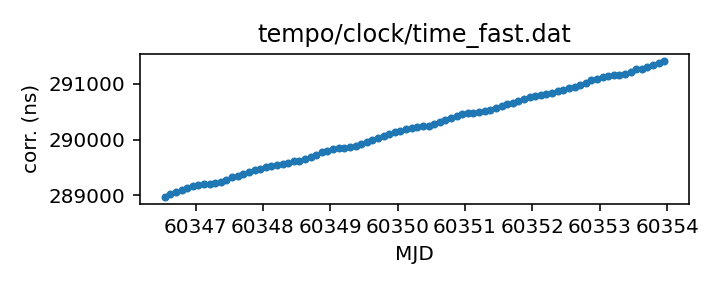
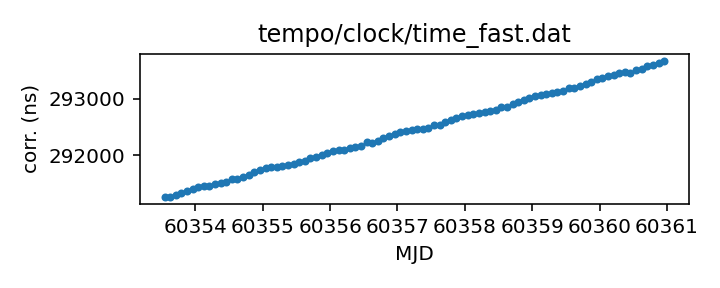
Routine gh-pages update from Github action Thu Feb 22 20:30:34 UTC 2024

diff --git a/status.md b/status.md
@@ -13,17 +13,17 @@ name of each clock file links to a page with more details.
 
 | Name | File | Corrections start | Corrections end | Last check date | Last check result 
 |:--- |:--- | --- | --- | --- |:--- 
-| [GPS to UTC](T2runtime/clock/gps2utc.clk.html) | `T2runtime/clock/gps2utc.clk` | 1993-01-01 MJD 48988.0 | 2024-01-30 MJD 60339.0 | 2024-02-21 | Unchanged 
-| [GPS to UTC (Combined Clock)](T2runtime/clock/gps2utc_cc.clk.html) | `T2runtime/clock/gps2utc_cc.clk` | 1993-01-01 MJD 48988.0 | 2024-01-30 MJD 60339.0 | 2024-02-21 | Unchanged 
-| [GPS to UTC (Corrected)](T2runtime/clock/gps2utc_c0p.clk.html) | `T2runtime/clock/gps2utc_c0p.clk` | 2010-12-29 MJD 55559.0 | 2024-01-30 MJD 60339.0 | 2024-02-21 | Unchanged 
-| [GBT](tempo/clock/time_gbt.dat.html) | `tempo/clock/time_gbt.dat` | 2000-12-31 MJD 51909.5 | 2024-02-20 MJD 60360.5 | 2024-02-21 | Updated 
-| [GBT (TEMPO2 converted from TEMPO)](T2runtime/clock/gbt2gps.clk.html) | `T2runtime/clock/gbt2gps.clk` | 2000-12-31 MJD 51909.5 | 2023-03-20 MJD 60023.5 | 2024-02-21 | **Validation failed** 
-| [Jodrell Bank](T2runtime/clock/jb2gps.clk.html) | `T2runtime/clock/jb2gps.clk` | 2006-10-13 MJD 54021.4 | 2023-12-04 MJD 60282.0 | 2024-02-15 | Unchanged 
-| [Jodrell Bank Roach](T2runtime/clock/jbroach2jb.clk.html) | `T2runtime/clock/jbroach2jb.clk` | 2006-10-13 MJD 54021.4 | 2018-03-20 MJD 58197.6 | 2024-02-15 | Unchanged 
-| [Jodrell Bank DFB](T2runtime/clock/jbdfb2jb.clk.html) | `T2runtime/clock/jbdfb2jb.clk` | 2006-10-13 MJD 54021.4 | 2017-05-11 MJD 57884.0 | 2024-02-15 | Unchanged 
-| [Meerkat (observatory)](T2runtime/clock/mk2utc_observatory.clk.html) | `T2runtime/clock/mk2utc_observatory.clk` | 2019-01-01 MJD 58484.0 | 2024-01-31 MJD 60341.0 | 2024-02-15 | Unchanged 
-| [Leap seconds](tempo/clock/leap.sec.html) | `tempo/clock/leap.sec` | 1972-07-01 MJD 41499.0 | 2017-01-01 MJD 57754.0 | 2024-02-21 | Unchanged 
-| [UT1 table](tempo/clock/ut1.dat.html) | `tempo/clock/ut1.dat` | 1973-01-02 MJD 41684.0 | 2025-02-22 MJD 60728.0 | 2024-02-21 | Unchanged 
+| [GPS to UTC](T2runtime/clock/gps2utc.clk.html) | `T2runtime/clock/gps2utc.clk` | 1993-01-01 MJD 48988.0 | 2024-01-30 MJD 60339.0 | 2024-02-22 | Unchanged 
+| [GPS to UTC (Combined Clock)](T2runtime/clock/gps2utc_cc.clk.html) | `T2runtime/clock/gps2utc_cc.clk` | 1993-01-01 MJD 48988.0 | 2024-01-30 MJD 60339.0 | 2024-02-22 | Unchanged 
+| [GPS to UTC (Corrected)](T2runtime/clock/gps2utc_c0p.clk.html) | `T2runtime/clock/gps2utc_c0p.clk` | 2010-12-29 MJD 55559.0 | 2024-01-30 MJD 60339.0 | 2024-02-22 | Unchanged 
+| [GBT](tempo/clock/time_gbt.dat.html) | `tempo/clock/time_gbt.dat` | 2000-12-31 MJD 51909.5 | 2024-02-21 MJD 60361.5 | 2024-02-22 | Updated 
+| [GBT (TEMPO2 converted from TEMPO)](T2runtime/clock/gbt2gps.clk.html) | `T2runtime/clock/gbt2gps.clk` | 2000-12-31 MJD 51909.5 | 2023-03-20 MJD 60023.5 | 2024-02-22 | **Validation failed** 
+| [Jodrell Bank](T2runtime/clock/jb2gps.clk.html) | `T2runtime/clock/jb2gps.clk` | 2006-10-13 MJD 54021.4 | 2023-12-04 MJD 60282.0 | 2024-02-22 | Unchanged 
+| [Jodrell Bank Roach](T2runtime/clock/jbroach2jb.clk.html) | `T2runtime/clock/jbroach2jb.clk` | 2006-10-13 MJD 54021.4 | 2018-03-20 MJD 58197.6 | 2024-02-22 | Unchanged 
+| [Jodrell Bank DFB](T2runtime/clock/jbdfb2jb.clk.html) | `T2runtime/clock/jbdfb2jb.clk` | 2006-10-13 MJD 54021.4 | 2017-05-11 MJD 57884.0 | 2024-02-22 | Unchanged 
+| [Meerkat (observatory)](T2runtime/clock/mk2utc_observatory.clk.html) | `T2runtime/clock/mk2utc_observatory.clk` | 2019-01-01 MJD 58484.0 | 2024-01-31 MJD 60341.0 | 2024-02-22 | Unchanged 
+| [Leap seconds](tempo/clock/leap.sec.html) | `tempo/clock/leap.sec` | 1972-07-01 MJD 41499.0 | 2017-01-01 MJD 57754.0 | 2024-02-22 | Unchanged 
+| [UT1 table](tempo/clock/ut1.dat.html) | `tempo/clock/ut1.dat` | 1973-01-02 MJD 41684.0 | 2025-03-01 MJD 60735.0 | 2024-02-22 | Updated 
 
 
 
@@ -65,24 +65,24 @@ name of each clock file links to a page with more details.
 
 | Name | File | Corrections start | Corrections end | Last check date | Last check result 
 |:--- |:--- | --- | --- | --- |:--- 
-| [GPS to UTC (TEMPO2)](T2runtime/clock/gps2utc_tempo2.clk.html) | `T2runtime/clock/gps2utc_tempo2.clk` | 1996-03-27 MJD 50169.0 | 2022-10-27 MJD 59879.0 | 2024-02-15 | Unchanged 
-| [GBT (TEMPO2)](T2runtime/clock/gbt2gps_tempo2.clk.html) | `T2runtime/clock/gbt2gps_tempo2.clk` | 2000-12-31 MJD 51909.5 | 2020-02-25 MJD 58904.5 | 2024-02-15 | Unchanged 
-| [Jodrell Bank (TEMPO)](tempo/clock/time_jb.dat.html) | `tempo/clock/time_jb.dat` | 2006-10-13 MJD 54021.4 | 2019-05-13 MJD 58616.2 | 2024-02-15 | Unchanged 
-| [VLA](tempo/clock/time_vla.dat.html) | `tempo/clock/time_vla.dat` | 1990-10-27 MJD 48191.2 | 2021-03-07 MJD 59280.5 | 2024-02-15 | Unchanged 
-| [VLA (TEMPO2)](T2runtime/clock/vla2gps.clk.html) | `T2runtime/clock/vla2gps.clk` | 2015-02-01 MJD 57054.6 | 2021-03-07 MJD 59280.5 | 2024-02-15 | Unchanged 
-| [VLA to NIST](T2runtime/clock/vla2nist.clk.html) | `T2runtime/clock/vla2nist.clk` | 1990-10-27 MJD 48191.2 | 1993-11-13 MJD 49304.0 | 2024-02-15 | Unchanged 
-| [FAST](tempo/clock/time_fast.dat.html) | `tempo/clock/time_fast.dat` | 2017-07-27 MJD 57961.0 | 2024-02-13 MJD 60354.0 | 2024-02-15 | Updated 
-| [WSRT](T2runtime/clock/wsrt2gps.clk.html) | `T2runtime/clock/wsrt2gps.clk` | 1999-01-01 MJD 51179.5 | 2015-06-29 MJD 57202.1 | 2024-02-15 | Unchanged 
-| [WSRT (TEMPO)](tempo/clock/time_wsrt.dat.html) | `tempo/clock/time_wsrt.dat` | 1987-07-24 MJD 47000.0 | 2007-12-24 MJD 54458.0 | 2024-02-15 | **Validation failed** 
-| [Parkes](T2runtime/clock/pks2gps.clk.html) | `T2runtime/clock/pks2gps.clk` | 1858-11-17 MJD 0.0 | 2024-01-31 MJD 60340.1 | 2024-02-15 | Unchanged 
-| [Parkes (TEMPO)](tempo/clock/time_pks.dat.html) | `tempo/clock/time_pks.dat` | 1979-05-07 MJD 44000.0 | 2011-07-03 MJD 55745.8 | 2024-02-15 | **Validation failed** 
-| [SRT](T2runtime/clock/srt2gps.clk.html) | `T2runtime/clock/srt2gps.clk` | 2013-03-20 MJD 56371.0 | 2019-12-11 MJD 58828.0 | 2024-02-15 | Unchanged 
-| [Effelsberg](T2runtime/clock/eff2gps.clk.html) | `T2runtime/clock/eff2gps.clk` | 1993-11-29 MJD 49320.0 | 2015-06-22 MJD 57195.5 | 2024-02-15 | Unchanged 
-| [Effelsberg Asterix/PSRix](T2runtime/clock/effix2gps.clk.html) | `T2runtime/clock/effix2gps.clk` | 2011-01-01 MJD 55562.5 | 2021-03-21 MJD 59294.5 | 2024-02-15 | Unchanged 
-| [LEAP](T2runtime/clock/leap2effix.clk.html) | `T2runtime/clock/leap2effix.clk` | 2012-10-29 MJD 56230.0 | 2014-03-04 MJD 56720.0 | 2024-02-15 | Unchanged 
-| [NUPPI](tempo/clock/time_nuppi.dat.html) | `tempo/clock/time_nuppi.dat` | 2005-03-07 MJD 53436.0 | 2015-11-08 MJD 57334.6 | 2024-02-15 | Unchanged 
+| [GPS to UTC (TEMPO2)](T2runtime/clock/gps2utc_tempo2.clk.html) | `T2runtime/clock/gps2utc_tempo2.clk` | 1996-03-27 MJD 50169.0 | 2022-10-27 MJD 59879.0 | 2024-02-22 | Unchanged 
+| [GBT (TEMPO2)](T2runtime/clock/gbt2gps_tempo2.clk.html) | `T2runtime/clock/gbt2gps_tempo2.clk` | 2000-12-31 MJD 51909.5 | 2020-02-25 MJD 58904.5 | 2024-02-22 | Unchanged 
+| [Jodrell Bank (TEMPO)](tempo/clock/time_jb.dat.html) | `tempo/clock/time_jb.dat` | 2006-10-13 MJD 54021.4 | 2019-05-13 MJD 58616.2 | 2024-02-22 | Unchanged 
+| [VLA](tempo/clock/time_vla.dat.html) | `tempo/clock/time_vla.dat` | 1990-10-27 MJD 48191.2 | 2021-03-07 MJD 59280.5 | 2024-02-22 | Unchanged 
+| [VLA (TEMPO2)](T2runtime/clock/vla2gps.clk.html) | `T2runtime/clock/vla2gps.clk` | 2015-02-01 MJD 57054.6 | 2021-03-07 MJD 59280.5 | 2024-02-22 | Unchanged 
+| [VLA to NIST](T2runtime/clock/vla2nist.clk.html) | `T2runtime/clock/vla2nist.clk` | 1990-10-27 MJD 48191.2 | 1993-11-13 MJD 49304.0 | 2024-02-22 | Unchanged 
+| [FAST](tempo/clock/time_fast.dat.html) | `tempo/clock/time_fast.dat` | 2017-07-27 MJD 57961.0 | 2024-02-20 MJD 60361.0 | 2024-02-22 | Updated 
+| [WSRT](T2runtime/clock/wsrt2gps.clk.html) | `T2runtime/clock/wsrt2gps.clk` | 1999-01-01 MJD 51179.5 | 2015-06-29 MJD 57202.1 | 2024-02-22 | Unchanged 
+| [WSRT (TEMPO)](tempo/clock/time_wsrt.dat.html) | `tempo/clock/time_wsrt.dat` | 1987-07-24 MJD 47000.0 | 2007-12-24 MJD 54458.0 | 2024-02-22 | **Validation failed** 
+| [Parkes](T2runtime/clock/pks2gps.clk.html) | `T2runtime/clock/pks2gps.clk` | 1858-11-17 MJD 0.0 | 2024-01-31 MJD 60340.1 | 2024-02-22 | Unchanged 
+| [Parkes (TEMPO)](tempo/clock/time_pks.dat.html) | `tempo/clock/time_pks.dat` | 1979-05-07 MJD 44000.0 | 2011-07-03 MJD 55745.8 | 2024-02-22 | **Validation failed** 
+| [SRT](T2runtime/clock/srt2gps.clk.html) | `T2runtime/clock/srt2gps.clk` | 2013-03-20 MJD 56371.0 | 2019-12-11 MJD 58828.0 | 2024-02-22 | Unchanged 
+| [Effelsberg](T2runtime/clock/eff2gps.clk.html) | `T2runtime/clock/eff2gps.clk` | 1993-11-29 MJD 49320.0 | 2015-06-22 MJD 57195.5 | 2024-02-22 | Unchanged 
+| [Effelsberg Asterix/PSRix](T2runtime/clock/effix2gps.clk.html) | `T2runtime/clock/effix2gps.clk` | 2011-01-01 MJD 55562.5 | 2021-03-21 MJD 59294.5 | 2024-02-22 | Unchanged 
+| [LEAP](T2runtime/clock/leap2effix.clk.html) | `T2runtime/clock/leap2effix.clk` | 2012-10-29 MJD 56230.0 | 2014-03-04 MJD 56720.0 | 2024-02-22 | Unchanged 
+| [NUPPI](tempo/clock/time_nuppi.dat.html) | `tempo/clock/time_nuppi.dat` | 2005-03-07 MJD 53436.0 | 2015-11-08 MJD 57334.6 | 2024-02-22 | Unchanged 
 | [Meerkat (TEMPO2)](T2runtime/clock/mk2utc.clk.html) | `T2runtime/clock/mk2utc.clk` | 2019-01-01 MJD 58484.0 | 2023-10-18 MJD 60235.9 | 2024-02-19 | Unchanged 
-| [MOST](T2runtime/clock/mo2gps.clk.html) | `T2runtime/clock/mo2gps.clk` | 2003-12-27 MJD 53000.0 | 2018-09-06 MJD 58367.0 | 2024-02-15 | Unchanged 
+| [MOST](T2runtime/clock/mo2gps.clk.html) | `T2runtime/clock/mo2gps.clk` | 2003-12-27 MJD 53000.0 | 2018-09-06 MJD 58367.0 | 2024-02-22 | Unchanged 
 | [Nancay to obspm](T2runtime/clock/ncyobs2obspm.clk.html) | `T2runtime/clock/ncyobs2obspm.clk` | 1988-05-18 MJD 47299.6 | 2023-10-27 MJD 60244.0 | 2024-02-21 | Unchanged 
 | [obspm](T2runtime/clock/obspm2gps.clk.html) | `T2runtime/clock/obspm2gps.clk` | 2003-12-01 MJD 52974.0 | 2023-10-27 MJD 60244.0 | 2024-02-21 | Unchanged 
 

diff --git a/tempo/clock/time_pks.dat.md b/tempo/clock/time_pks.dat.md
@@ -20,12 +20,11 @@ telescopes in the same file, distinguished only by observatory code.
 | Clock file start | 1979-05-07 MJD 44000.0 |
 | Clock file end | 2011-07-03 MJD 55745.8 |
 | Update interval (days) | 7 |
-| Last update attempt | 2024-02-15 |
+| Last update attempt | 2024-02-22 |
 | Last update result | Validation failed |
 
 Log entries from the last few update attempts:
 ```
-2023-12-14 20:29:39.230 - Validation failed: Unable to read new version of tempo/clock/time_pks.dat: Clock file /tmp/astropy-download-1915-3v8rlovy appears to be out of order
 2023-12-21 20:29:40.474 - Validation failed: Unable to read new version of tempo/clock/time_pks.dat: Clock file /tmp/astropy-download-1821-3k659wi3 appears to be out of order
 2023-12-28 20:29:30.527 - Validation failed: Unable to read new version of tempo/clock/time_pks.dat: Clock file /tmp/astropy-download-1937-p5sqsqze appears to be out of order
 2024-01-04 20:29:28.434 - Validation failed: Unable to read new version of tempo/clock/time_pks.dat: Clock file /tmp/astropy-download-1932-d4kgqvo7 appears to be out of order
@@ -35,6 +34,7 @@ Log entries from the last few update attempts:
 2024-02-01 20:29:37.102 - Validation failed: Unable to read new version of tempo/clock/time_pks.dat: Clock file /tmp/astropy-download-1816-okvvhk9o appears to be out of order
 2024-02-08 20:29:41.805 - Validation failed: Unable to read new version of tempo/clock/time_pks.dat: Clock file /tmp/astropy-download-1793-uoj6xi3x appears to be out of order
 2024-02-15 20:29:55.562 - Validation failed: Unable to read new version of tempo/clock/time_pks.dat: Clock file /tmp/astropy-download-1800-q4luxsyy appears to be out of order
+2024-02-22 20:29:57.073 - Validation failed: Unable to read new version of tempo/clock/time_pks.dat: Clock file /tmp/astropy-download-1784-p1kik7sl appears to be out of order: 49959.0 > 49958.0
 ```
 [Full log](https://raw.githubusercontent.com/ipta/pulsar-clock-corrections/main/log/tempo/clock/time_pks.dat.log)
 

diff --git a/tempo/clock/time_wsrt.dat.md b/tempo/clock/time_wsrt.dat.md
@@ -20,12 +20,11 @@ should be the same information.
 | Clock file start | 1987-07-24 MJD 47000.0 |
 | Clock file end | 2007-12-24 MJD 54458.0 |
 | Update interval (days) | 7 |
-| Last update attempt | 2024-02-15 |
+| Last update attempt | 2024-02-22 |
 | Last update result | Validation failed |
 
 Log entries from the last few update attempts:
 ```
-2023-12-14 20:29:33.906 - Validation failed: Unable to read new version of tempo/clock/time_wsrt.dat: Clock file /tmp/astropy-download-1915-y4akqfn9 appears to be out of order
 2023-12-21 20:29:34.916 - Validation failed: Unable to read new version of tempo/clock/time_wsrt.dat: Clock file /tmp/astropy-download-1821-u_7ghfeo appears to be out of order
 2023-12-28 20:29:25.846 - Validation failed: Unable to read new version of tempo/clock/time_wsrt.dat: Clock file /tmp/astropy-download-1937-w51qchpk appears to be out of order
 2024-01-04 20:29:23.796 - Validation failed: Unable to read new version of tempo/clock/time_wsrt.dat: Clock file /tmp/astropy-download-1932-fzypdoq9 appears to be out of order
@@ -35,6 +34,7 @@ Log entries from the last few update attempts:
 2024-02-01 20:29:31.547 - Validation failed: Unable to read new version of tempo/clock/time_wsrt.dat: Clock file /tmp/astropy-download-1816-1ws_cqpx appears to be out of order
 2024-02-08 20:29:37.017 - Validation failed: Unable to read new version of tempo/clock/time_wsrt.dat: Clock file /tmp/astropy-download-1793-eyxf175c appears to be out of order
 2024-02-15 20:29:52.172 - Validation failed: Unable to read new version of tempo/clock/time_wsrt.dat: Clock file /tmp/astropy-download-1800-t833eh9r appears to be out of order
+2024-02-22 20:29:52.522 - Validation failed: Unable to read new version of tempo/clock/time_wsrt.dat: Clock file /tmp/astropy-download-1784-4nx1rkse appears to be out of order: 53000.05 > 53000.0
 ```
 [Full log](https://raw.githubusercontent.com/ipta/pulsar-clock-corrections/main/log/tempo/clock/time_wsrt.dat.log)
 

diff --git a/T2runtime/clock/gbt2gps.clk.md b/T2runtime/clock/gbt2gps.clk.md
@@ -25,12 +25,11 @@ If questions arise about the conversion, contact Anne Archibald
 | Clock file start | 2000-12-31 MJD 51909.5 |
 | Clock file end | 2023-03-20 MJD 60023.5 |
 | Update interval (days) | 1 |
-| Last update attempt | 2024-02-21 |
+| Last update attempt | 2024-02-22 |
 | Last update result | Validation failed |
 
 Log entries from the last few update attempts:
 ```
-2023-03-19 20:28:07.843 - Updated
 2023-03-20 20:27:17.557 - Updated
 2023-03-21 20:26:24.499 - Updated
 2024-02-15 20:29:47.823 - Validation failed: New version of T2runtime/clock/gbt2gps.clk clock corrections differ from old version where they overlap in 11 places
@@ -40,6 +39,7 @@ Log entries from the last few update attempts:
 2024-02-19 20:29:35.897 - Validation failed: New version of T2runtime/clock/gbt2gps.clk clock corrections differ from old version where they overlap in 11 places
 2024-02-20 20:29:22.882 - Validation failed: New version of T2runtime/clock/gbt2gps.clk clock corrections differ from old version where they overlap in 11 places
 2024-02-21 20:29:46.209 - Validation failed: New version of T2runtime/clock/gbt2gps.clk clock corrections differ from old version where they overlap in 11 places
+2024-02-22 20:29:48.315 - Validation failed: New version of T2runtime/clock/gbt2gps.clk clock corrections differ from old version where they overlap in 11 places
 ```
 [Full log](https://raw.githubusercontent.com/ipta/pulsar-clock-corrections/main/log/T2runtime/clock/gbt2gps.clk.log)
 

diff --git a/tempo/clock/time_gbt.dat.md b/tempo/clock/time_gbt.dat.md
@@ -31,14 +31,13 @@ If questions arise, contact Ryan S. Lynch <rlynch@nrao.edu>.
 | Format | tempo |
 | Bogus last correction | False |
 | Clock file start | 2000-12-31 MJD 51909.5 |
-| Clock file end | 2024-02-20 MJD 60360.5 |
+| Clock file end | 2024-02-21 MJD 60361.5 |
 | Update interval (days) | 1 |
-| Last update attempt | 2024-02-21 |
+| Last update attempt | 2024-02-22 |
 | Last update result | Updated |
 
 Log entries from the last few update attempts:
 ```
-2024-02-12 20:29:41.143 - Validation failed: New version of tempo/clock/time_gbt.dat clock corrections differ from old version where they overlap in 11 places
 2024-02-13 20:30:16.364 - Validation failed: New version of tempo/clock/time_gbt.dat clock corrections differ from old version where they overlap in 11 places
 2024-02-14 18:47:24.340 - Unchanged
 2024-02-15 20:29:47.296 - Updated
@@ -48,6 +47,7 @@ Log entries from the last few update attempts:
 2024-02-19 20:29:35.843 - Updated
 2024-02-20 20:29:22.843 - Validation failed: New version of tempo/clock/time_gbt.dat clock corrections differ from old version where they overlap in 11 places
 2024-02-21 20:29:46.153 - Updated
+2024-02-22 20:29:47.934 - Updated
 ```
 [Full log](https://raw.githubusercontent.com/ipta/pulsar-clock-corrections/main/log/tempo/clock/time_gbt.dat.log)
 

diff --git a/tempo/clock/ut1.dat.md b/tempo/clock/ut1.dat.md
@@ -28,14 +28,13 @@ If there are any questions, contact Anne Archibald
 | File | `tempo/clock/ut1.dat` |
 | Authority | observatory |
 | File start | 1973-01-02 MJD 41684.0 |
-| File end | 2025-02-22 MJD 60728.0 |
+| File end | 2025-03-01 MJD 60735.0 |
 | Update interval (days) | 0 |
-| Last update attempt | 2024-02-21 |
-| Last update result | Unchanged |
+| Last update attempt | 2024-02-22 |
+| Last update result | Updated |
 
 Log entries from the last few update attempts:
 ```
-2024-02-13 20:30:24.141 - Unchanged
 2024-02-14 18:46:04.175 - Unchanged
 2024-02-14 20:29:37.253 - Unchanged
 2024-02-15 20:30:16.805 - Updated
@@ -45,5 +44,6 @@ Log entries from the last few update attempts:
 2024-02-19 20:29:48.013 - Unchanged
 2024-02-20 20:29:31.140 - Unchanged
 2024-02-21 20:29:58.997 - Unchanged
+2024-02-22 20:30:15.762 - Updated
 ```
 [Full log](https://raw.githubusercontent.com/ipta/pulsar-clock-corrections/main/log/tempo/clock/ut1.dat.log)

diff --git a/tempo/clock/time_fast.dat.md b/tempo/clock/time_fast.dat.md
@@ -14,14 +14,13 @@ This file is pulled from the FAST_ClockFile repository.
 | Format | tempo |
 | Bogus last correction | False |
 | Clock file start | 2017-07-27 MJD 57961.0 |
-| Clock file end | 2024-02-13 MJD 60354.0 |
+| Clock file end | 2024-02-20 MJD 60361.0 |
 | Update interval (days) | 7 |
-| Last update attempt | 2024-02-15 |
+| Last update attempt | 2024-02-22 |
 | Last update result | Updated |
 
 Log entries from the last few update attempts:
 ```
-2023-12-14 20:29:33.419 - Updated
 2023-12-21 20:29:34.482 - Updated
 2023-12-28 20:29:25.400 - Updated
 2024-01-04 20:29:23.424 - Updated
@@ -31,6 +30,7 @@ Log entries from the last few update attempts:
 2024-02-01 20:29:31.050 - Updated
 2024-02-08 20:29:36.613 - Updated
 2024-02-15 20:29:51.577 - Updated
+2024-02-22 20:29:52.010 - Updated
 ```
 [Full log](https://raw.githubusercontent.com/ipta/pulsar-clock-corrections/main/log/tempo/clock/time_fast.dat.log)
 

diff --git a/T2runtime/clock/mk2utc_observatory.clk.md b/T2runtime/clock/mk2utc_observatory.clk.md
@@ -21,12 +21,11 @@ If questions arise, contact Ryan Shannon <rshannon@swin.edu.au>
 | Clock file start | 2019-01-01 MJD 58484.0 |
 | Clock file end | 2024-01-31 MJD 60341.0 |
 | Update interval (days) | 7 |
-| Last update attempt | 2024-02-15 |
+| Last update attempt | 2024-02-22 |
 | Last update result | Unchanged |
 
 Log entries from the last few update attempts:
 ```
-2023-12-14 20:29:43.300 - Unchanged
 2023-12-21 20:29:56.175 - Updated
 2023-12-28 20:29:34.840 - Unchanged
 2024-01-04 20:29:32.776 - Updated
@@ -36,6 +35,7 @@ Log entries from the last few update attempts:
 2024-02-01 20:29:41.481 - Updated
 2024-02-08 20:29:46.191 - Updated
 2024-02-15 20:30:01.644 - Unchanged
+2024-02-22 20:30:01.784 - Unchanged
 ```
 [Full log](https://raw.githubusercontent.com/ipta/pulsar-clock-corrections/main/log/T2runtime/clock/mk2utc_observatory.clk.log)
 

diff --git a/T2runtime/clock/gps2utc_c0p.clk.md b/T2runtime/clock/gps2utc_c0p.clk.md
@@ -30,12 +30,11 @@ about the BIPM's published corrections, contact <tai@bipm.org>.
 | Clock file start | 2010-12-29 MJD 55559.0 |
 | Clock file end | 2024-01-30 MJD 60339.0 |
 | Update interval (days) | 1 |
-| Last update attempt | 2024-02-21 |
+| Last update attempt | 2024-02-22 |
 | Last update result | Unchanged |
 
 Log entries from the last few update attempts:
 ```
-2024-02-12 20:29:40.609 - Updated
 2024-02-13 20:30:16.052 - Unchanged
 2024-02-14 20:29:28.468 - Unchanged
 2024-02-15 20:29:46.458 - Unchanged
@@ -45,6 +44,7 @@ Log entries from the last few update attempts:
 2024-02-19 20:29:34.911 - Unchanged
 2024-02-20 20:29:22.517 - Unchanged
 2024-02-21 20:29:45.299 - Unchanged
+2024-02-22 20:29:47.541 - Unchanged
 ```
 [Full log](https://raw.githubusercontent.com/ipta/pulsar-clock-corrections/main/log/T2runtime/clock/gps2utc_c0p.clk.log)
 

diff --git a/T2runtime/clock/gps2utc_cc.clk.md b/T2runtime/clock/gps2utc_cc.clk.md
@@ -29,12 +29,11 @@ about the BIPM's published corrections, contact <tai@bipm.org>.
 | Clock file start | 1993-01-01 MJD 48988.0 |
 | Clock file end | 2024-01-30 MJD 60339.0 |
 | Update interval (days) | 1 |
-| Last update attempt | 2024-02-21 |
+| Last update attempt | 2024-02-22 |
 | Last update result | Unchanged |
 
 Log entries from the last few update attempts:
 ```
-2024-02-12 20:29:40.584 - Updated
 2024-02-13 20:30:16.043 - Unchanged
 2024-02-14 20:29:28.459 - Unchanged
 2024-02-15 20:29:46.448 - Unchanged
@@ -44,6 +43,7 @@ Log entries from the last few update attempts:
 2024-02-19 20:29:34.902 - Unchanged
 2024-02-20 20:29:22.508 - Unchanged
 2024-02-21 20:29:45.289 - Unchanged
+2024-02-22 20:29:47.532 - Unchanged
 ```
 [Full log](https://raw.githubusercontent.com/ipta/pulsar-clock-corrections/main/log/T2runtime/clock/gps2utc_cc.clk.log)
 

diff --git a/T2runtime/clock/gps2utc.clk.md b/T2runtime/clock/gps2utc.clk.md
@@ -32,12 +32,11 @@ about the BIPM's published corrections, contact <tai@bipm.org>.
 | Clock file start | 1993-01-01 MJD 48988.0 |
 | Clock file end | 2024-01-30 MJD 60339.0 |
 | Update interval (days) | 1 |
-| Last update attempt | 2024-02-21 |
+| Last update attempt | 2024-02-22 |
 | Last update result | Unchanged |
 
 Log entries from the last few update attempts:
 ```
-2024-02-12 20:29:40.521 - Updated
 2024-02-13 20:30:16.017 - Unchanged
 2024-02-14 20:29:28.433 - Unchanged
 2024-02-15 20:29:46.420 - Unchanged
@@ -47,6 +46,7 @@ Log entries from the last few update attempts:
 2024-02-19 20:29:34.877 - Unchanged
 2024-02-20 20:29:22.483 - Unchanged
 2024-02-21 20:29:45.262 - Unchanged
+2024-02-22 20:29:47.506 - Unchanged
 ```
 [Full log](https://raw.githubusercontent.com/ipta/pulsar-clock-corrections/main/log/T2runtime/clock/gps2utc.clk.log)
 

diff --git a/T2runtime/clock/leap2effix.clk.md b/T2runtime/clock/leap2effix.clk.md
@@ -23,12 +23,11 @@ thus here) can be expected to be somewhat up to date.
 | Clock file start | 2012-10-29 MJD 56230.0 |
 | Clock file end | 2014-03-04 MJD 56720.0 |
 | Update interval (days) | 7 |
-| Last update attempt | 2024-02-15 |
+| Last update attempt | 2024-02-22 |
 | Last update result | Unchanged |
 
 Log entries from the last few update attempts:
 ```
-2023-12-14 20:29:40.017 - Unchanged
 2023-12-21 20:29:41.220 - Unchanged
 2023-12-28 20:29:31.168 - Unchanged
 2024-01-04 20:29:29.091 - Unchanged
@@ -38,6 +37,7 @@ Log entries from the last few update attempts:
 2024-02-01 20:29:37.839 - Unchanged
 2024-02-08 20:29:42.570 - Unchanged
 2024-02-15 20:29:57.322 - Unchanged
+2024-02-22 20:29:58.211 - Unchanged
 ```
 [Full log](https://raw.githubusercontent.com/ipta/pulsar-clock-corrections/main/log/T2runtime/clock/leap2effix.clk.log)
 
